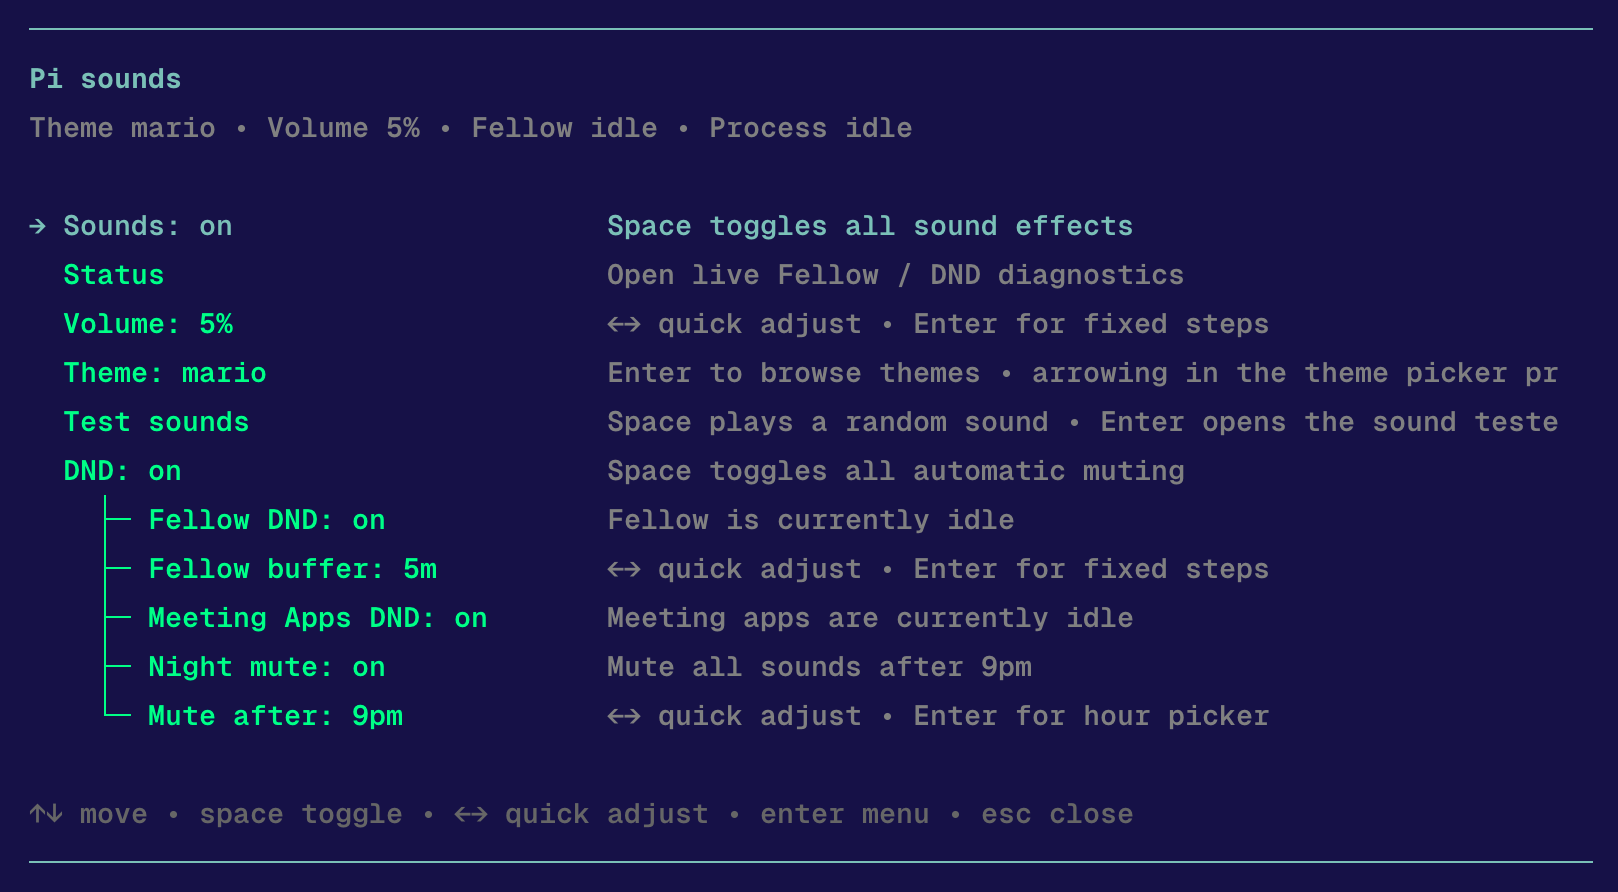
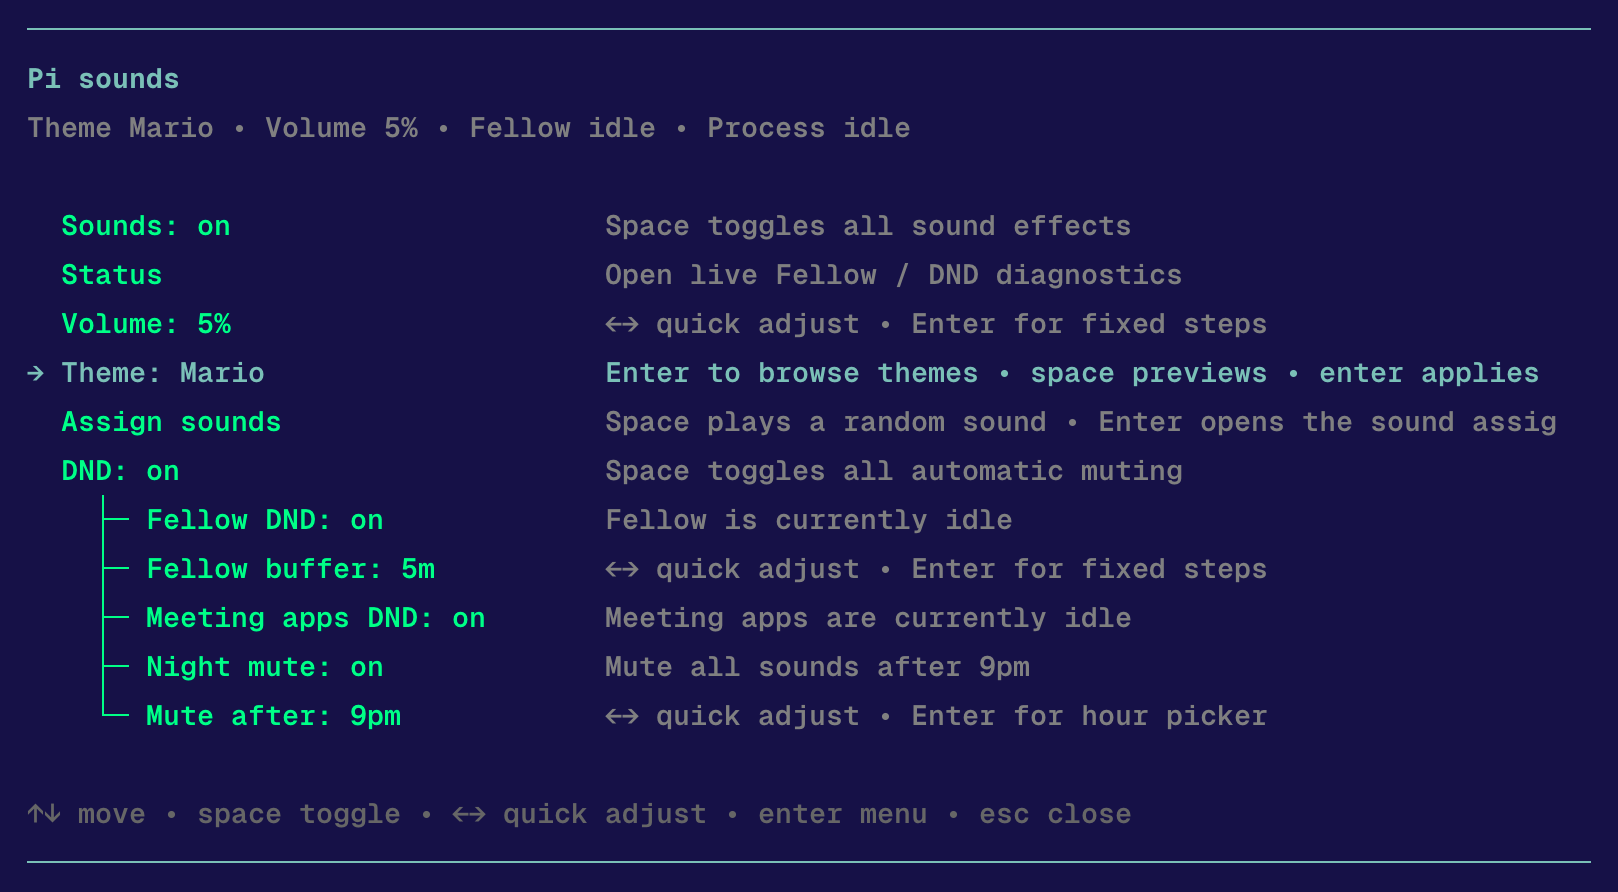
Refresh README screenshots

diff --git a/README.md b/README.md
@@ -41,6 +41,12 @@ After that, open:
 - `/sounds`
 - `/sounds status`
 
+## Theme customization
+
+The `/sounds` dashboard includes a theme picker plus an assignment grid for previewing how each theme maps sounds to Pi hooks.
+
+![pi-sounds theme customization](./.github/pi-sounds-theme-customizations.png)
+
 ## Bundled assets
 
 This repo includes bundled sound themes under `themes/`.
